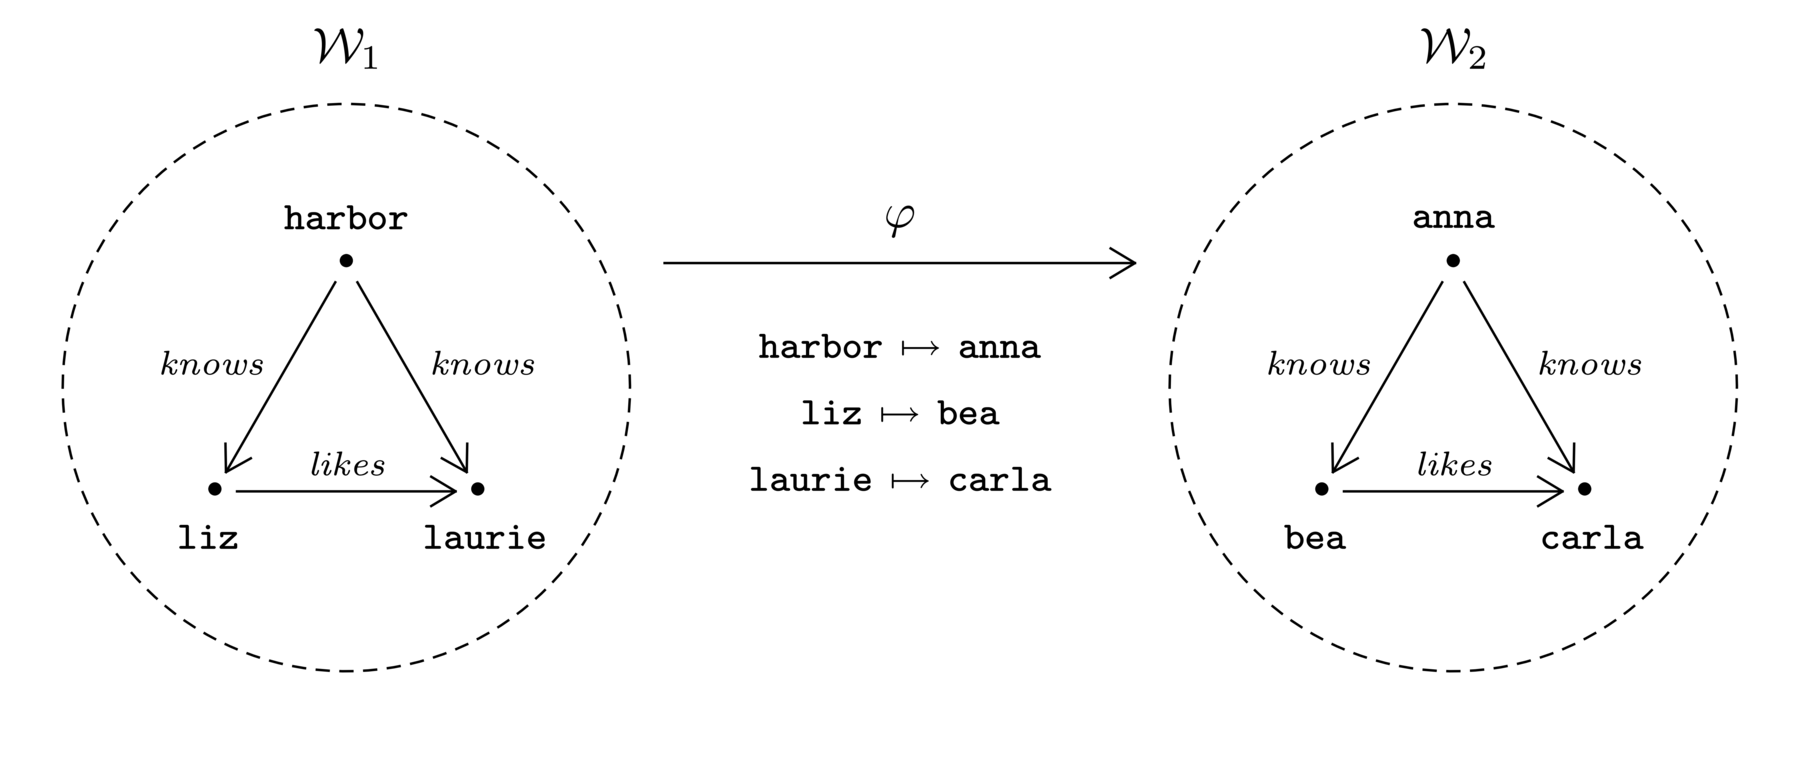
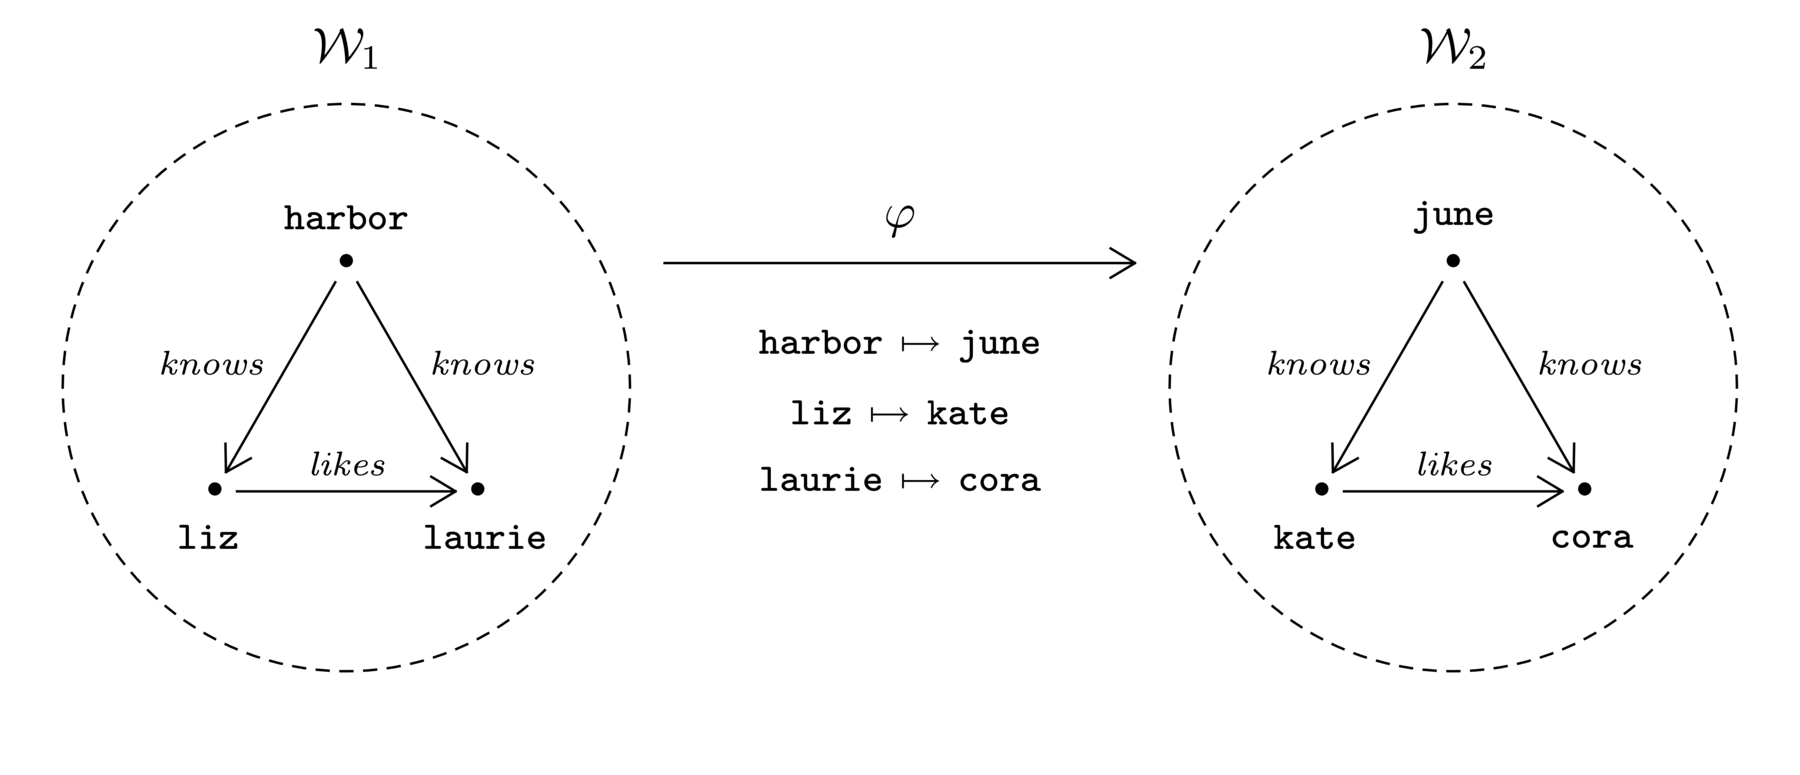
Give the people in the examples plain English names
Harbor, laurie and liz are now joined by robin, quinn, june and the like, in the specification, the READMEs, the department example, the tests and the equality figure.

diff --git a/tests/worlds.rs b/tests/worlds.rs
@@ -88,7 +88,7 @@ fn the_examples_run() {
     let review = example("department/review.grant");
     assert_eq!(review[2], "plan_merged");
     assert_eq!(review[5..], ["yes", "no", "yes"]);
-    assert_eq!(example("department/next_year.grant")[..2], ["logic_1", "s: fabio, c: group_theory"]);
+    assert_eq!(example("department/next_year.grant")[..2], ["logic_1", "s: felix, c: group_theory"]);
 }
 
 #[test]
@@ -111,17 +111,14 @@ fn values_and_expressions() {
          ? sum harbor.knows.age
          ? max harbor.knows.age
          ? min harbor.knows.age
-         ? \"Harbor\" + \" \" + \"Rossi\"
+         ? \"Harbor\" + \" \" + \"Reed\"
          ? harbor.feels
          ? count (person p lives_in pisa)
          ? harbor.age - 30
          ? 3.5 + 0.25
          ? \"alice\" < \"Zed\"",
     ));
-    assert_eq!(
-        shown,
-        ["pisa, rome", "50", "3", "2", "1/3", "2", "57", "30", "27", "\"Harbor Rossi\"", "nothing", "2", "-6", "3.75", "yes"]
-    );
+    assert_eq!(shown, ["pisa, rome", "50", "3", "2", "1/3", "2", "57", "30", "27", "\"Harbor Reed\"", "nothing", "2", "-6", "3.75", "yes"]);
 }
 
 #[test]
@@ -192,20 +189,20 @@ fn questions_show_values_truth_and_matches() {
 fn rules_derive_live_and_recursively() {
     let shown = shows(&town(
         "kind person [ + can_reach: person ]
-         person marco [ age: 12 | lives_in: rome ]
+         person robin [ age: 12 | lives_in: rome ]
          rule mutual: person a knows person b if b knows a
          rule adult:  person p is adult if p.age >= 18
          rule reach:  person a can_reach person b if a knows b or (a knows person m and m can_reach b)
          ? liz.knows
          ? person p is adult
          ? liz can_reach laurie
-         ? marco can_reach liz
-         laurie knows marco
-         ? marco can_reach liz
-         marco [ age: 18 ]
-         ? marco is adult
+         ? robin can_reach liz
+         laurie knows robin
+         ? robin can_reach liz
+         robin [ age: 18 ]
+         ? robin is adult
          - rule adult
-         ? marco is adult",
+         ? robin is adult",
     ));
     assert_eq!(shown, ["harbor", "liz, laurie, harbor", "yes", "no", "yes", "yes", "no"]);
 }
@@ -243,12 +240,12 @@ fn rules_cannot_depend_on_their_own_negation_or_aggregate() {
 #[test]
 fn changing_facts() {
     let shown = shows(&town(
-        "person marco [ age: 40 | lives_in: rome ]
-         + harbor knows marco
+        "person robin [ age: 40 | lives_in: rome ]
+         + harbor knows robin
          ? harbor.knows
          harbor [ lives_in: rome ]
          ? harbor.lives_in
-         harbor [ knows: + liz, - marco ]
+         harbor [ knows: + liz, - robin ]
          ? harbor.knows
          harbor [ knows: + laurie.knows ]
          - harbor knows liz
@@ -257,7 +254,7 @@ fn changing_facts() {
          ? harbor.knows
          harbor [ age: harbor.age + 1 ]
          ? harbor.age
-         - marco
+         - robin
          ? person p lives_in rome
          - harbor knows ghost
          - ghost",
@@ -265,7 +262,7 @@ fn changing_facts() {
     assert_eq!(
         shown,
         [
-            "liz, laurie, marco",
+            "liz, laurie, robin",
             "rome",
             "liz, laurie",
             "laurie",
@@ -350,7 +347,7 @@ fn errors_on_a_line() {
     assert_eq!(fails(&town("rule r: person p is adult if p.colour = 1")), "person has no relation `colour`");
     assert_eq!(fails(&town("rule r: person p is adult if p lives_in happy")), "`lives_in` takes a city, not a feeling");
     assert_eq!(fails(&town("harbor.knows")), "this value isn't used");
-    assert_eq!(fails(&town("person marco\n? marco.age + 1")), "marco has no `age`");
+    assert_eq!(fails(&town("person robin\n? robin.age + 1")), "robin has no `age`");
     assert_eq!(fails(&town("? harbor.age / 0")), "division by zero");
     assert_eq!(fails(&town("? harbor.age + \"x\"")), "`+` needs two numbers or two texts, not a number and a text");
     assert_eq!(fails(&town("? harbor < liz")), "`<` orders two numbers or two texts, not a person and a person");
@@ -378,7 +375,7 @@ fn the_end_of_the_world_is_the_checkpoint() {
             "never sensible_age: person p where p.age < 0 or p.age > 150
              never adults_feel:  person p where p.age >= 18 and not p feels feeling f
              + harbor lives_in rome
-             person marco [ age: 200 ]
+             person robin [ age: 200 ]
              laurie feels happy
              liz feels happy
              harbor feels happy",
@@ -388,9 +385,9 @@ fn the_end_of_the_world_is_the_checkpoint() {
         problems,
         [
             "harbor has 2 `lives_in` (person: `lives_in: one city`)",
-            "marco has no `lives_in` (person: `lives_in: one city`)",
-            "marco breaks `adults_feel` (never adults_feel: person p where p.age >= 18 and not p feels feeling f)",
-            "marco breaks `sensible_age` (never sensible_age: person p where p.age < 0 or p.age > 150)",
+            "robin has no `lives_in` (person: `lives_in: one city`)",
+            "robin breaks `adults_feel` (never adults_feel: person p where p.age >= 18 and not p feels feeling f)",
+            "robin breaks `sensible_age` (never sensible_age: person p where p.age < 0 or p.age > 150)",
         ]
     );
     // A world is its final structure, not the order of its lines.
@@ -437,8 +434,8 @@ fn a_parent_with_errors_is_named() {
 
 #[test]
 fn several_parents_merge_by_union() {
-    let rome = ("move_rome", "from town\nharbor [ lives_in: rome ]\nperson marco [ age: 3 | lives_in: rome ]\n- harbor feels happy");
-    let florence = ("move_florence", "from town\nharbor [ lives_in: florence ]\nperson marco [ age: 4 | lives_in: florence ]");
+    let rome = ("move_rome", "from town\nharbor [ lives_in: rome ]\nperson robin [ age: 3 | lives_in: rome ]\n- harbor feels happy");
+    let florence = ("move_florence", "from town\nharbor [ lives_in: florence ]\nperson robin [ age: 4 | lives_in: florence ]");
     let both = |lines: &str| run(&[("town", BASE), rome, florence, ("both", &format!("from id, move_rome, move_florence\n{lines}"))]);
     // Same origin, same object; different origin, different objects; a merge keeps what either says.
     let shown = both(
@@ -447,20 +444,20 @@ fn several_parents_merge_by_union() {
          ? harbor feels happy
          ? id.2
          harbor [ lives_in: rome ]
-         ? the marco [ lives_in: florence ] age 4
-         person paolo [ age: 1 | lives_in: pisa ]
-         ? paolo.id",
+         ? the robin [ lives_in: florence ] age 4
+         person quinn [ age: 1 | lives_in: pisa ]
+         ? quinn.id",
     )
     .unwrap();
     assert_eq!(
         shown,
-        ["rome, florence", "3", "yes", "rome, marco (person 2 from move_rome), marco (person 2 from move_florence)", "yes", "3"]
+        ["rome, florence", "3", "yes", "rome, robin (person 2 from move_rome), robin (person 2 from move_florence)", "yes", "3"]
     );
     assert_eq!(
         ends_with(&[("town", BASE), rome, florence, ("both", "from move_florence, move_rome")]),
         ["harbor has 2 `lives_in` (person: `lives_in: one city`)"]
     );
-    assert!(both("marco [ age: 5 ]").unwrap_err().contains("2 objects called marco; use `the`"));
+    assert!(both("robin [ age: 5 ]").unwrap_err().contains("2 objects called robin; use `the`"));
 }
 
 #[test]
@@ -492,7 +489,7 @@ fn worlds_are_objects() {
     let sad = ("town_b", "from town\n- harbor feels happy");
     let twin = (
         "town_c",
-        "from numbers\nkind city\nkind feeling\nkind person [ age: one number | lives_in: one city | feels: feeling | is_at: feeling ]\ncity a\ncity b\ncity c\nfeeling glad\nperson anna [ age: 24 | lives_in: a | feels: glad ]",
+        "from numbers\nkind city\nkind feeling\nkind person [ age: one number | lives_in: one city | feels: feeling | is_at: feeling ]\ncity a\ncity b\ncity c\nfeeling glad\nperson june [ age: 24 | lives_in: a | feels: glad ]",
     );
     let compare = "from numbers
         world town_a
@@ -518,7 +515,7 @@ fn worlds_are_objects() {
     let held = |lines: &str| run(&[("town", BASE), ("w", &format!("world town\n{lines}"))]).unwrap_err();
     assert!(held("in town: harbor [ lives_in: rome ]").contains("town is held, not built on; write a world `from town`"));
     assert!(held("harbor [ lives_in: rome ]").contains("`harbor` doesn't exist yet"));
-    assert!(held("? in town: marco.age").contains("`marco` doesn't exist in town"));
+    assert!(held("? in town: robin.age").contains("`robin` doesn't exist in town"));
 }
 
 #[test]

diff --git a/docs/foundation-1.md b/docs/foundation-1.md
@@ -98,7 +98,7 @@ W = (K, O, F, R)
 - **Identity** is where an object was created: the world that created it and its place in that world's order of creation. It is never written and never seen. It is what makes harbor in one world the same harbor in another.
 - **Vocabulary by name, things by origin.** Kinds, relations, rules and constraints are identified by their names. Objects are identified by their origin. Two objects can share a handle; two kinds can't share a name.
 - **Facts are a set.** Stating the same fact twice is stating it once. Order is lost; only the structure remains.
-- **A fact's value** is an object or a primitive value (`24`, `"Harbor Rossi"`).
+- **A fact's value** is an object or a primitive value (`24`, `"Harbor Reed"`).
 - **Derived facts** are not stored. D is everything the rules produce from F, recomputed whenever F or R changes. Questions see F and D together:
 
 ```
@@ -107,7 +107,7 @@ M = F ∪ D(F, R)
 
 ### Equality
 
-Two worlds are equal when they have the same kinds, rules and constraints, and their objects can be matched one to one so that every object's kind and every fact correspond. Handles, identities and indexes don't matter: equality compares **shape**. A world with anna in place of harbor, and everything else the same, is equal.
+Two worlds are equal when they have the same kinds, rules and constraints, and their objects can be matched one to one so that every object's kind and every fact correspond. Handles, identities and indexes don't matter: equality compares **shape**. A world with june in place of harbor, and everything else the same, is equal.
 
 ---
 
@@ -124,7 +124,7 @@ A world without `from numbers` has no numbers.
 | World | Kind | Holds | Example |
 | --- | --- | --- | --- |
 | `numbers` | `number` | exact numbers, `+ - * / div mod`, `< > <= >=` | `24`, `3.5`, `-2` |
-| `text` | `text` | written content, `+` to join, `< > <= >=` (alphabetical) | `"Harbor Rossi"` |
+| `text` | `text` | written content, `+` to join, `< > <= >=` (alphabetical) | `"Harbor Reed"` |
 | `id` | `id` | one index per number, related to every object with that number | `id.1` |
 
 Time is not a primitive: a date is a number of days, and a calendar is a world built on `numbers`, using `div` and `mod`.
@@ -340,9 +340,9 @@ Running a world shows its own questions only. A parent's questions are not repea
 ### Facts and objects
 
 ```
-+ harbor knows marco            -- adds: harbor knows liz, laurie, marco
++ harbor knows robin            -- adds: harbor knows liz, laurie, robin
 harbor [ lives_in: rome ]       -- brackets set: rome replaces pisa
-harbor [ knows: + marco, - liz ]
+harbor [ knows: + robin, - liz ]
 - harbor knows liz              -- one fact
 - harbor knows                  -- every knows from harbor
 - harbor                        -- harbor and every fact touching it
@@ -422,7 +422,7 @@ Because a child is instructions, most of it keeps its meaning:
 
 - `harbor [ lives_in: rome ]` still sets rome, whatever town now says harbor's home is.
 - `- harbor feels happy` does nothing if town no longer says it.
-- `harbor knows marco` still adds.
+- `harbor knows robin` still adds.
 
 Some lines can stop making sense. If town removes harbor, `harbor [ lives_in: rome ]` now points at nothing, and the child fails with an error that names the cause: "harbor doesn't exist (removed in town)". Grant never guesses what a broken line meant.
 
@@ -436,7 +436,7 @@ from move_rome, move_florence
 A world with several parents starts from their **union**: every kind, object, fact, rule and constraint that any parent has. Order doesn't matter: `from a, b` and `from b, a` are the same world.
 
 - **Same origin, same object.** harbor in move_rome and harbor in move_florence both come from town, so the child has one harbor carrying the facts of both.
-- **Different origin, different objects.** If each parent created its own marco, the child has two marcos, and `the` tells them apart.
+- **Different origin, different objects.** If each parent created its own robin, the child has two marcos, and `the` tells them apart.
 - **Same name, same vocabulary.** A kind declared in both parents is one kind, and its shape has every relation either parent declared. Rules and constraints with the same name are one rule or constraint.
 - **A merge keeps what either parent says.** If move_rome removed `harbor feels happy` and move_florence still has it, the child has it. To remove it, the child removes it.
 

diff --git a/examples/department/README.md b/examples/department/README.md
@@ -85,7 +85,7 @@ Constraints are checked when a world ends, so a plan can be written in any order
 
 | Question | Shows |
 | --- | --- |
-| `? person s wants course c and not s may_take c` | dario, galois_theory: he hasn't passed group theory |
+| `? person s wants course c and not s may_take c` | devon, galois_theory: he hasn't passed group theory |
 | `? course c and c.demand = 0` | nothing |
 
 ### `plan_morning` and `plan_spread`
@@ -96,7 +96,7 @@ Two children of `department`. Each gives every course a lecturer, a room and a s
 | --- | --- | --- |
 | Hours | everything before lunch | two courses in the afternoon |
 | Analysis II | riemann, mon_9 | cauchy, mon_14 |
-| Clashes | dario on tue_9, elena on wed_9 | none |
+| Clashes | devon on tue_9, ellie on wed_9 | none |
 | `overloaded` means | load above 24 | load above 20 |
 | Overloaded | riemann (30) | noether (21), cauchy (24) |
 
@@ -123,7 +123,7 @@ Holds the three plans as objects with `world`. A plan can't be changed from here
 | `? world a clashes_less_than world b` | plan_spread and plan_merged each beat plan_morning |
 | `? world a spares_more_than world b` | plan_morning beats plan_spread; plan_merged beats both |
 | `? world w is best` | plan_merged |
-| `? in plan_morning: person s clashes_on slot k` | dario on tue_9, elena on wed_9 |
+| `? in plan_morning: person s clashes_on slot k` | devon on tue_9, ellie on wed_9 |
 | `? in plan_spread: cauchy.load` | 24 |
 | `? (in plan_morning: riemann is overloaded) and not (in plan_merged: riemann is overloaded)` | yes: the same riemann, by origin, in two worlds |
 | `? plan_merged = plan_spread` | no: the same hours, but a different rule |
@@ -134,14 +134,14 @@ Holds the three plans as objects with `world`. A plan can't be changed from here
 Built on `plan_merged`. It is instructions applied to its parent: if the plans change, this world is run again on whatever they have become.
 
 1. Every student passes what they were ready to take (`each … [ passed: + s.may_take ]`, computed once), and their wishes are cleared.
-2. chiara and elena graduate, godel retires, and fabio arrives.
+2. claire and ellie graduate, godel retires, and felix arrives.
 3. The remaining students state new wishes.
 
-The first question finds a course in demand with no lecturer, logic_1, which would break `untaught` at the end; the next line gives it to noether. Then fabio is held back from group theory, noether's load is 27, and nobody clashes.
+The first question finds a course in demand with no lecturer, logic_1, which would break `untaught` at the end; the next line gives it to noether. Then felix is held back from group theory, noether's load is 27, and nobody clashes.
 
 ## Things to try
 
-- In `people.grant`, let dario pass `group_theory`. He is no longer held back from Galois
+- In `people.grant`, let devon pass `group_theory`. He is no longer held back from Galois
   Theory, its demand rises, and every world below is run again.
 - In `campus.grant`, give `seminar` 1 seat. Both plans now end with `too_small`, and
   `review` reports that `plan_morning` has errors.

diff --git a/docs/decisions.md b/docs/decisions.md
@@ -72,7 +72,7 @@ A decision marked **(extension)** adds something the grammar doesn't list.
 
 28. **A held world is its own identity.** `world town_a` stated in two parents is one object after a merge, and stating it twice holds it once. `world towns/town_a` holds the world at that path under the handle `town_a`.
 
-29. **Names inside `in w:` are w's**, looked up when the question is asked. Looking into a named world for a handle it doesn't have is an error ("`marco` doesn't exist in town"). When w is a variable ranging over held worlds, a world that lacks the handle or the kind simply has no matches.
+29. **Names inside `in w:` are w's**, looked up when the question is asked. Looking into a named world for a handle it doesn't have is an error ("`robin` doesn't exist in town"). When w is a variable ranging over held worlds, a world that lacks the handle or the kind simply has no matches.
 
 30. **A variable keeps its object across worlds.** `(in town_a: person p feels happy) and not (in town_c: p feels happy)` asks about the same p in both, by origin.
 
@@ -86,7 +86,7 @@ A decision marked **(extension)** adds something the grammar doesn't list.
 
 ## Showing
 
-34. **Things of one kind are shown in index order**; mixed kinds in order of creation. When several objects share a handle they are shown with kind and index, `harbor (person 4)`, and with the world that made them when the index repeats after a merge, `marco (person 2 from move_rome)`.
+34. **Things of one kind are shown in index order**; mixed kinds in order of creation. When several objects share a handle they are shown with kind and index, `harbor (person 4)`, and with the world that made them when the index repeats after a merge, `robin (person 2 from move_rome)`.
 
 35. **A line may nest 120 levels deep** (parentheses, `not`, `count ( … )`). Deeper is refused: "this line nests too deeply".
 

diff --git a/README.md b/README.md
@@ -134,7 +134,7 @@ Two worlds are equal when they have the same kinds, rules and constraints, and t
 | `kind person [ + email: maybe text \| - age ]` | changes a shape |
 | `person harbor [ age: 24 ]` | creates an object |
 | `harbor knows liz` | adds a fact |
-| `harbor [ lives_in: rome \| knows: + marco, - liz ]` | sets values; `+` and `-` add and remove single ones |
+| `harbor [ lives_in: rome \| knows: + robin, - liz ]` | sets values; `+` and `-` add and remove single ones |
 | `- harbor knows liz` · `- harbor knows` · `- harbor` | removes a fact, a relation's values, an object |
 | `each person p where p.age < 18 [ age: p.age + 1 ]` | the same change on every match |
 | `rule adult: person p is adult if p.age >= 18` | a fact that follows |
